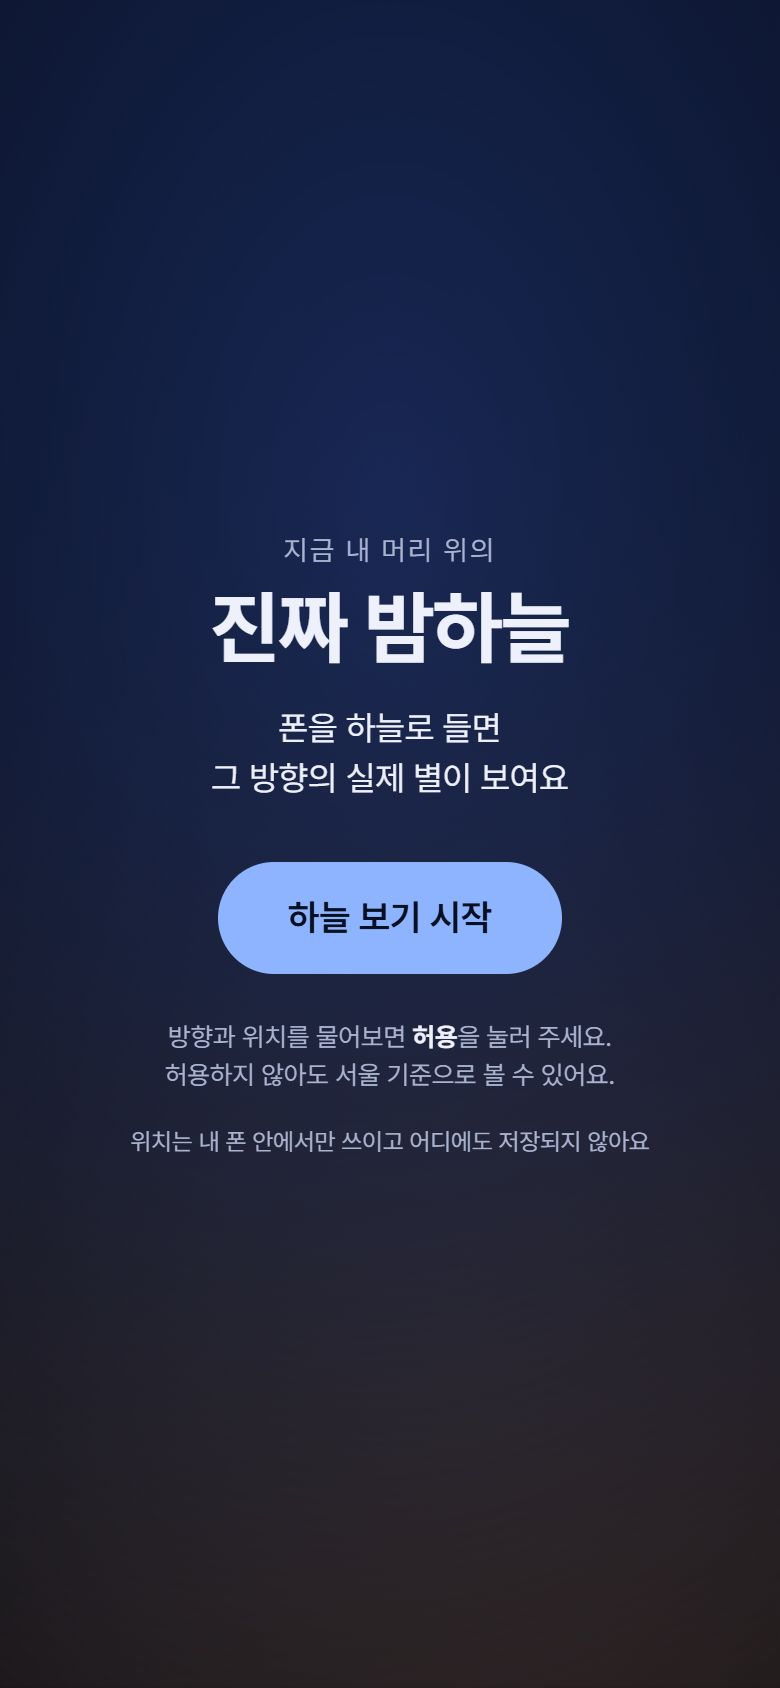
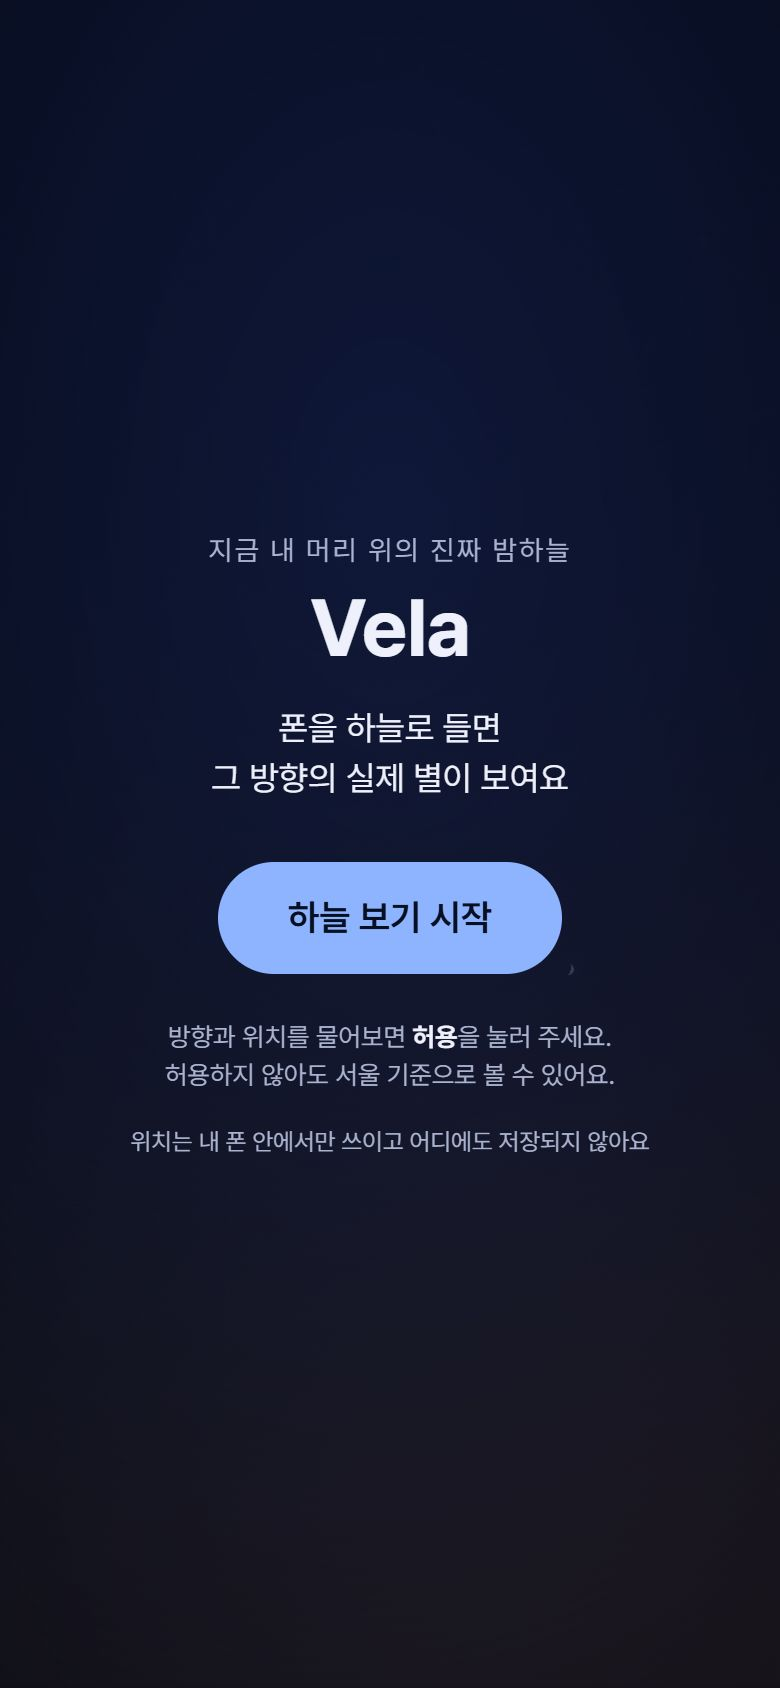
앱 이름을 Vela로, 배포 주소를 /Vela_night-sky/로 변경

Changed region(s): [[0.2462, 0.154, 0.7385, 0.4621]]

diff --git a/index.html b/index.html
@@ -3,21 +3,21 @@
   <head>
     <meta charset="UTF-8" />
     <meta name="viewport" content="width=device-width, initial-scale=1, viewport-fit=cover, user-scalable=no" />
-    <title>진짜 밤하늘</title>
+    <title>Vela</title>
     <meta name="description" content="지금 내 위치에서 폰을 든 방향의 실제 밤하늘. 별·별자리·달·행성을 설치 없이 바로 볼 수 있어요." />
     <meta name="theme-color" content="#05070f" />
     <meta name="color-scheme" content="dark" />
     <meta name="apple-mobile-web-app-capable" content="yes" />
     <meta name="apple-mobile-web-app-status-bar-style" content="black-translucent" />
-    <meta name="apple-mobile-web-app-title" content="진짜 밤하늘" />
+    <meta name="apple-mobile-web-app-title" content="Vela" />
 
     <!-- 카톡·메신저 미리보기 카드 (og-image는 앱의 실제 화면을 찍은 것) -->
     <meta property="og:type" content="website" />
-    <meta property="og:site_name" content="진짜 밤하늘" />
-    <meta property="og:title" content="진짜 밤하늘 — 지금 내 머리 위의 별" />
+    <meta property="og:site_name" content="Vela" />
+    <meta property="og:title" content="Vela — 지금 내 머리 위의 진짜 밤하늘" />
     <meta property="og:description" content="폰을 하늘로 들면 그 방향의 진짜 별·별자리·달·행성이 보여요. 설치 없이 바로." />
-    <meta property="og:url" content="https://pkjewon.github.io/night-sky/" />
-    <meta property="og:image" content="https://pkjewon.github.io/night-sky/og-image.jpg" />
+    <meta property="og:url" content="https://pkjewon.github.io/Vela_night-sky/" />
+    <meta property="og:image" content="https://pkjewon.github.io/Vela_night-sky/og-image.jpg" />
     <meta property="og:image:width" content="1200" />
     <meta property="og:image:height" content="630" />
     <meta property="og:locale" content="ko_KR" />
@@ -97,7 +97,7 @@
 
     <section id="about" class="sheet tall" hidden aria-label="정보와 출처">
       <div class="sheet-head">
-        <h2>진짜 밤하늘</h2>
+        <h2>Vela</h2>
         <button id="about-close" class="icon-btn" aria-label="닫기">✕</button>
       </div>
       <div class="sheet-body prose">
@@ -114,15 +114,15 @@
           <li><strong>한글 별자리 이름</strong> — 한국천문학회 표준 이름 (<a href="https://ko.wikipedia.org/wiki/국제천문연맹_지정_별자리" target="_blank" rel="noopener">위키백과 목록</a>과 대조).</li>
           <li><strong>정확도 검증</strong> — <a href="https://rhodesmill.org/skyfield/" target="_blank" rel="noopener">Skyfield</a> + JPL DE421 (테스트용, 앱에는 들어 있지 않음).</li>
         </ul>
-        <p class="small">가공한 별·은하수 데이터는 원본과 같은 CC BY-SA 라이선스로, 앱 코드는 MIT 라이선스로 공개돼 있어요. · <a href="https://github.com/pkjewon/night-sky" target="_blank" rel="noopener">GitHub</a></p>
+        <p class="small">가공한 별·은하수 데이터는 원본과 같은 CC BY-SA 라이선스로, 앱 코드는 MIT 라이선스로 공개돼 있어요. · <a href="https://github.com/pkjewon/Vela_night-sky" target="_blank" rel="noopener">GitHub</a></p>
         <p class="small">만든 사람: 재원 (Claude Code와 함께)</p>
       </div>
     </section>
 
     <section id="start">
       <div class="start-inner">
-        <p class="eyebrow">지금 내 머리 위의</p>
-        <h1>진짜 밤하늘</h1>
+        <p class="eyebrow">지금 내 머리 위의 진짜 밤하늘</p>
+        <h1>Vela</h1>
         <p class="lead">폰을 하늘로 들면<br />그 방향의 실제 별이 보여요</p>
         <button id="btn-start" class="pill accent big">하늘 보기 시작</button>
         <p class="hint">방향과 위치를 물어보면 <strong>허용</strong>을 눌러 주세요.<br />허용하지 않아도 서울 기준으로 볼 수 있어요.</p>

diff --git a/tests/e2e/robust.spec.ts b/tests/e2e/robust.spec.ts
@@ -121,14 +121,14 @@ test.describe('공유와 출처', () => {
   test('카톡 미리보기 카드용 태그(제목·설명·1200x630 사진)가 있다', async ({ page }) => {
     await page.goto('./');
     const meta = (property: string) => page.locator(`meta[property="${property}"]`).getAttribute('content');
-    expect(await meta('og:title')).toContain('진짜 밤하늘');
+    expect(await meta('og:title')).toContain('Vela');
     expect((await meta('og:description'))!.length).toBeGreaterThan(10);
-    expect(await meta('og:image')).toBe('https://pkjewon.github.io/night-sky/og-image.jpg');
-    expect(await meta('og:url')).toBe('https://pkjewon.github.io/night-sky/');
+    expect(await meta('og:image')).toBe('https://pkjewon.github.io/Vela_night-sky/og-image.jpg');
+    expect(await meta('og:url')).toBe('https://pkjewon.github.io/Vela_night-sky/');
     expect(await meta('og:image:width')).toBe('1200');
     expect(await meta('og:image:height')).toBe('630');
     expect(await page.locator('meta[name="theme-color"]').getAttribute('content')).toBeTruthy();
-    await expect(page).toHaveTitle('진짜 밤하늘');
+    await expect(page).toHaveTitle('Vela');
     // 사진·아이콘 파일이 실제로 있다
     for (const path of ['og-image.jpg', 'favicon.svg', 'apple-touch-icon.png']) {
       const res = await page.request.get(`./${path}`);

diff --git a/scripts/make-og.ts b/scripts/make-og.ts
@@ -17,7 +17,7 @@ const page = await browser.newPage({
   locale: 'ko-KR',
   timezoneId: 'Asia/Seoul',
 });
-await page.goto(`http://localhost:4173/night-sky/?${query}`);
+await page.goto(`http://localhost:4173/Vela_night-sky/?${query}`);
 await page.waitForFunction(() => document.documentElement.dataset.ready === 'true', undefined, { timeout: 30_000 });
 await page.waitForFunction(() => document.documentElement.dataset.milkyway === 'ready', undefined, { timeout: 10_000 });
 await page.waitForTimeout(600);
@@ -32,7 +32,7 @@ await page.addStyleTag({
 await page.evaluate(() => {
   const div = document.createElement('div');
   div.id = 'og-title';
-  div.innerHTML = '<h1>진짜 밤하늘</h1><p>폰을 하늘로 들면, 그 방향의 진짜 별이 보여요</p>';
+  div.innerHTML = '<h1>Vela</h1><p>폰을 하늘로 들면, 그 방향의 진짜 별이 보여요</p>';
   document.body.appendChild(div);
   // 제목과 겹치는 하늘 이름표는 숨긴다
   const box = div.getBoundingClientRect();

diff --git a/playwright.config.ts b/playwright.config.ts
@@ -10,7 +10,7 @@ export default defineConfig({
   retries: process.env.CI ? 1 : 0,
   reporter: [['list']],
   use: {
-    baseURL: `http://localhost:${PORT}/night-sky/`,
+    baseURL: `http://localhost:${PORT}/Vela_night-sky/`,
     browserName: 'chromium',
     locale: 'ko-KR',
     timezoneId: 'Asia/Seoul',
@@ -27,7 +27,7 @@ export default defineConfig({
   webServer: {
     // dist는 `npm run e2e` / `npm run check`가 먼저 빌드해 둔다.
     command: `npx vite preview --port ${PORT} --strictPort`,
-    url: `http://localhost:${PORT}/night-sky/`,
+    url: `http://localhost:${PORT}/Vela_night-sky/`,
     reuseExistingServer: !process.env.CI,
     timeout: 120_000,
   },

diff --git a/tests/e2e/start.spec.ts b/tests/e2e/start.spec.ts
@@ -22,7 +22,7 @@ test.describe('시작 화면', () => {
   test('버튼 하나와 위치 안내 한 줄이 있다', async ({ page }) => {
     await gotoSky(page);
     await expect(page.locator('#start')).toBeVisible();
-    await expect(page.locator('#start h1')).toHaveText('진짜 밤하늘');
+    await expect(page.locator('#start h1')).toHaveText('Vela');
     await expect(page.locator('#start button')).toHaveCount(1);
     await expect(page.locator('#btn-start')).toHaveText('하늘 보기 시작');
     await expect(page.locator('#start .privacy')).toHaveText('위치는 내 폰 안에서만 쓰이고 어디에도 저장되지 않아요');

diff --git a/scripts/shot.ts b/scripts/shot.ts
@@ -17,7 +17,7 @@ async function main() {
     if (m.type() === 'error' || m.type() === 'warning') console.log(`[${m.type()}] ${m.text()}`);
   });
   page.on('pageerror', (e) => console.log(`[pageerror] ${e.message}`));
-  await page.goto(`http://localhost:4173/night-sky/${query ? `?${query}` : ''}`);
+  await page.goto(`http://localhost:4173/Vela_night-sky/${query ? `?${query}` : ''}`);
   await page.waitForFunction(() => document.documentElement.dataset.ready === 'true', undefined, { timeout: 30_000 });
   await page
     .waitForFunction(() => document.documentElement.dataset.milkyway === 'ready', undefined, { timeout: 8000 })

diff --git a/vite.config.ts b/vite.config.ts
@@ -1,8 +1,8 @@
 import { defineConfig } from 'vitest/config';
 
-// GitHub Pages 주소가 https://pkjewon.github.io/night-sky/ 라서 base를 맞춘다.
+// GitHub Pages 주소가 https://pkjewon.github.io/Vela_night-sky/ 라서 base를 맞춘다.
 export default defineConfig({
-  base: '/night-sky/',
+  base: '/Vela_night-sky/',
   build: { target: 'es2020', chunkSizeWarningLimit: 900 },
   test: { include: ['tests/unit/**/*.test.ts'], environment: 'node' },
 });

diff --git a/docs/PROGRESS.md b/docs/PROGRESS.md
@@ -15,7 +15,7 @@
 
 ## 0단계. 준비
 
-- **한 일**: Vite 8 + TypeScript 7(strict) + Three.js 0.187, Vitest 5, Playwright 1.65(Chromium, 데스크톱·모바일 390x844, 그래픽카드 없이 swiftshader로 그림). 스크립트 dev·build·test·e2e·size·check. `base: '/night-sky/'`. `.github/workflows/ci.yml`(푸시·PR마다 check), `deploy.yml`(main → GitHub Pages, actions/deploy-pages). CLAUDE.md·PLAN.md·ATTRIBUTION.md 작성.
+- **한 일**: Vite 8 + TypeScript 7(strict) + Three.js 0.187, Vitest 5, Playwright 1.65(Chromium, 데스크톱·모바일 390x844, 그래픽카드 없이 swiftshader로 그림). 스크립트 dev·build·test·e2e·size·check. `base: '/Vela_night-sky/'`. `.github/workflows/ci.yml`(푸시·PR마다 check), `deploy.yml`(main → GitHub Pages, actions/deploy-pages). CLAUDE.md·PLAN.md·ATTRIBUTION.md 작성.
 - **테스트 결과**: check 통과.
 - **스크린샷 확인**: 임시 화면 단계는 건너뜀.
 - **남은 문제**: GitHub Actions는 실제로 돌려보지 못함 (저장소에 아직 안 올림).
@@ -100,7 +100,7 @@
 ### 친구 폰 테스트 부탁 문구 (카톡용)
 
 ```text
-내가 만든 밤하늘 앱 테스트 좀 부탁해! → https://pkjewon.github.io/night-sky/?debug=1
+내가 만든 밤하늘 앱 테스트 좀 부탁해! → https://pkjewon.github.io/Vela_night-sky/?debug=1
 ① "하늘 보기 시작" 누르고 허용 2번
 ② 폰을 하늘로 들고 한 바퀴 천천히 돌아봐
 확인해 줄 것 3가지:
@@ -128,14 +128,10 @@
 
 ## 사용자가 할 일
 
-1. GitHub에 **공개(public)** 저장소 `night-sky` 만들기 (README 등 아무 파일도 추가하지 말고 빈 저장소로).
-2. 이 폴더에서:
-   ```bash
-   git remote add origin https://github.com/pkjewon/night-sky.git
-   git push -u origin main --tags
-   ```
+1. ~~GitHub 저장소 만들기~~ → https://github.com/pkjewon/Vela_night-sky (2026-11-15 앱 이름을 **Vela**로 바꿈, 주소도 /Vela_night-sky/)
+2. ~~코드 올리기~~ → main과 태그를 올림 (GitHub이 만든 README 첫 커밋은 덮어쓰지 않고 합침).
 3. 저장소 Settings → Pages → Source를 **GitHub Actions**로.
-4. Actions 탭에서 CI·Deploy가 초록불인지 확인 → https://pkjewon.github.io/night-sky/ 열기.
+4. Actions 탭에서 CI·Deploy가 초록불인지 확인 → https://pkjewon.github.io/Vela_night-sky/ 열기.
 5. 위 "아이폰 실기 테스트 체크리스트" 해 보고 결과 알려 주기 (특히 4번 편각 보정).
 6. 카톡 "나와의 채팅"에 링크를 보내 미리보기 카드(사진·제목)가 뜨는지 확인.
 7. docs/ACCURACY.md의 3개 장면을 Stellarium으로 비교해 빈칸 채우기.

diff --git a/README.md b/README.md
@@ -1,8 +1,8 @@
-# 진짜 밤하늘
+# Vela — 진짜 밤하늘
 
 폰을 하늘로 들면, 지금 그 방향에 있는 **진짜 별·별자리·달·행성**이 보이는 웹 앱. 설치 없이 링크만 열면 돼요.
 
-**👉 https://pkjewon.github.io/night-sky/**
+**👉 https://pkjewon.github.io/Vela_night-sky/**
 
 ![여름밤 은하수와 별자리](public/og-image.jpg)
 
@@ -26,7 +26,7 @@
 | `seed` | `7` | 별똥별 등 연출을 고정한 한 장면 |
 | `debug` | `1` / `table` | 디버그 패널 / 천체 위치 표 |
 
-예: [쌍둥이자리 유성우 무렵 겨울밤](https://pkjewon.github.io/night-sky/?t=2026-12-14T22:00%2B09:00&az=125&alt=30)
+예: [쌍둥이자리 유성우 무렵 겨울밤](https://pkjewon.github.io/Vela_night-sky/?t=2026-12-14T22:00%2B09:00&az=125&alt=30)
 
 ## 정확도
 

diff --git a/CLAUDE.md b/CLAUDE.md
@@ -1,7 +1,7 @@
-# CLAUDE.md — 진짜 밤하늘 + 오로라
+# CLAUDE.md — Vela (진짜 밤하늘 + 오로라)
 
 실제 별 데이터(HYG v4.2)로 지금 시간·내 위치의 밤하늘을 보여주는 웹 앱. 친구들이 카톡 링크로 아이폰에서 열고, 폰을 하늘로 들면 그 방향의 별이 보인다. 컴퓨터에서는 마우스 드래그.
-배포 주소: https://pkjewon.github.io/night-sky/ (vite base `/night-sky/`)
+배포 주소: https://pkjewon.github.io/Vela_night-sky/ (vite base `/Vela_night-sky/`)
 
 새 대화를 시작하면 **docs/PROGRESS.md부터 읽고** 시작한다. 전체 계획은 docs/PLAN.md.
 
